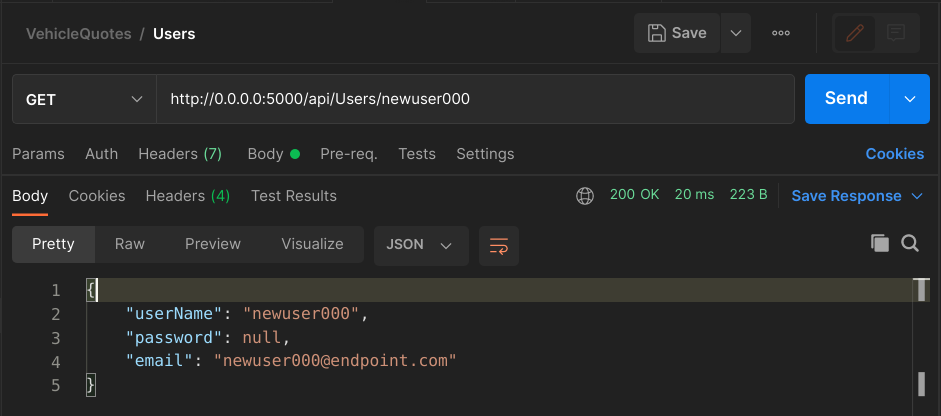
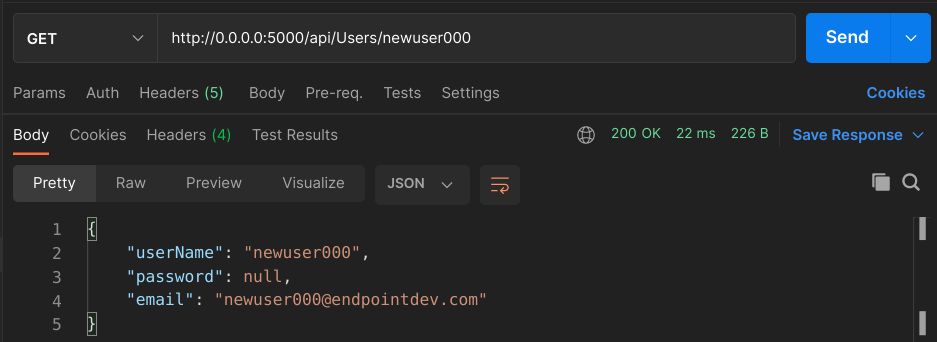
Implemented feedback from JP.

diff --git a/2022/06/implementing-authentication-in-asp.net-core-web-apis.md b/2022/06/implementing-authentication-in-asp.net-core-web-apis.md
@@ -211,7 +211,7 @@ vehicle_quotes=# \dt
 (14 rows)
 ```
 
-And that's pretty much it when it comes to having a sensible storage for user accounts. That was pretty inexpensive wasn't it? All we had to do was install some NuGet packages, tweak our existing DbContext, and run some migrations.
+And that's pretty much it when it comes to having a sensible storage for user accounts. That was pretty inexpensive, wasn't it? All we had to do was install some NuGet packages, tweak our existing DbContext, and run some migrations.
 
 The best thing is that we're not done yet. We can also take advantage of ASP.NET Core Identity to manage users programmatically. Instead of interacting with these tables directly, we will use the service classes provided by Identity to create new users, fetch existing ones and validate their credentials.
 
@@ -362,7 +362,7 @@ With that, we can test our API. Fire it up with `dotnet run` (or [`dotnet watch`
 ```json
 {
   "userName": "newuser000",
-  "email": "newuser000@endpoint.com",
+  "email": "newuser000@endpointdev.com",
   "password": "password"
 }
 ```
@@ -380,7 +380,7 @@ vehicle_quotes=# select id, user_name, email, password_hash from "AspNetUsers";
 -[ RECORD 1 ]-+--------------------------------------
 id            | aaad07b4-f109-4255-8caa-185fd7694c72
 user_name     | newuser000
-email         | newuser000@endpoint.com
+email         | newuser000@endpointdev.com
 password_hash | AQAAAAEAACcQAAAAEJJTV7M2Ejqd3K3iC...
 ```
 
@@ -595,7 +595,7 @@ new JwtSecurityToken (
 
 > The "Issuer" and "Audience" parameters in `JwtSecurityToken`'s constructor correspond to JWT claims `iss` and `aud`, respectively. You can learn more about them and other claims in [the RFC](https://datatracker.ietf.org/doc/html/rfc7519#section-4.1).
 
-The next parameter that `JwtSecurityToken`'s constructor needs is the claims array. In JWT terms, a claim is essentially a statement about the entity for which the token is generated. Some data that identifies it. For example if we're generating a token for a user, what you would expect to see in such a token's claims are things like username, email, and any other non-secret profile info.
+The next parameter that `JwtSecurityToken`'s constructor needs is the claims array. In JWT terms, a claim is essentially a statement about the entity for which the token is generated. Some data that identifies it. For example, if we're generating a token for a user, what you would expect to see in such a token's claims are things like username, email, and any other non-secret profile info.
 
 In our case, as you can see in the `CreateClaims` method, we add a number of claims:
 
@@ -938,7 +938,9 @@ namespace VehicleQuotes.Services
 }
 ```
 
-As you can see, this class' single method, aptly named `CreateApiKey`, just takes the given user and creates a new `UserApiKey` that's associated with it and saves it into the database. The key values themselves are just two [GUIDs](https://en.wikipedia.org/wiki/Universally_unique_identifier) concatenated.
+As you can see, this class' single public method, aptly named `CreateApiKey`, just takes the given user and creates a new `UserApiKey` that's associated with it and saves it into the database. The key values themselves are just two [GUIDs](https://en.wikipedia.org/wiki/Universally_unique_identifier) concatenated.
+
+> This is an admittedly simplistic and not-all-that-secure method for generating the keys themselves. For simplicity, we've gone with this. In a production app however, it'd be better to use a true cryptographically secure string. [Here's an article](https://jonathancrozier.com/blog/how-to-generate-a-cryptographically-secure-random-string-in-dot-net-with-c-sharp) that explains how to do that with .NET.
 
 Naturally, this class needs to be used elsewhere in the application, so let's make it available for Dependency Injection by adding the following line to `VehicleQuotes/Startup.cs`'s `ConfigureServices` method.
 
@@ -1103,7 +1105,7 @@ namespace VehicleQuotes.Authentication.ApiKey
 
 The first thing to note is how we've defined the base class: `AuthenticationHandler<AuthenticationSchemeOptions>`. `AuthenticationHandler` is a generic, and it allows us to control the type of options object that it accepts. In this case, we've used `AuthenticationSchemeOptions`, which is just a default one already provided by the framework. This is because we don't really need any custom options.
 
-> If we did, then we would define a new class that inherits from `AuthenticationSchemeOptions`, give it the new fields that we need, and use that as a generic time parameter instead. We would then be able to set values for these new fields during configuration in the app's `Startup` class. Just like we've done with the "Jwt Bearer" auth scheme via the `AddJwtBearer` method
+> If we did, then we would define a new class that inherits from `AuthenticationSchemeOptions`, give it the new fields that we need, and use that as a generic time parameter instead. We would then be able to set values for these new fields during configuration in the app's `Startup` class. Just like we've done with the "Jwt Bearer" auth scheme via the `AddJwtBearer` method.
 
 The next point of interest in this class is its constructor. The key aspect of it is that it calls base and passes it a series of parameters that it itself gets. This is because `AuthenticationHandler` does have some constructor logic that needs to be run for things to work properly, so we make sure to do that.
 
@@ -1156,7 +1158,7 @@ A simple configuration as far as auth schemes go. We specify both the types of t
 
 ### Updating the Authorize attribute to use our two schemes
 
-Now that the auth scheme is configured, we need to secure an endpoint using it. We can use the same that we used for JWT: `POST api/BodyTypes`, defined in `BodyTypesController`'s `GetBodyTypes` action method. Remember though, that we wanted to have both auth schemes (JWT and API Key) work on the endpoint. For that, the `Authorize` attribute allows a comma separated string of scheme names as a parameter. So, we can get both our configured schemes working if we update the attribute like this:
+Now that the auth scheme is configured, we need to use it to secure an endpoint. We can use the same that we used for JWT: `POST api/BodyTypes`, defined in `BodyTypesController`'s `GetBodyTypes` action method. Remember though, that we wanted to have both auth schemes (JWT and API Key) work on the endpoint. For that, the `Authorize` attribute allows a comma separated string of scheme names as a parameter. So, we can get both our configured schemes working if we update the attribute like this:
 
 ```csharp
 [Authorize(AuthenticationSchemes = $"{JwtBearerDefaults.AuthenticationScheme},ApiKey")]
